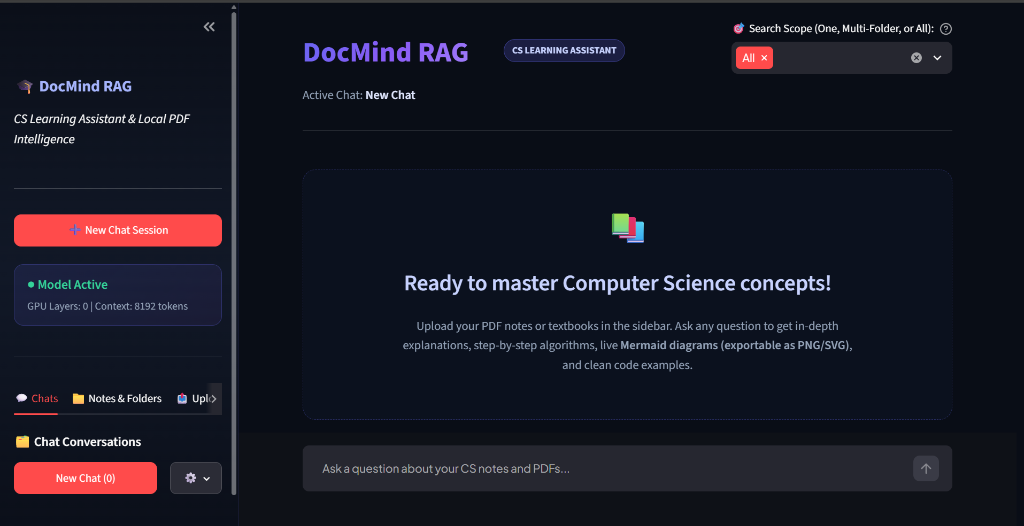
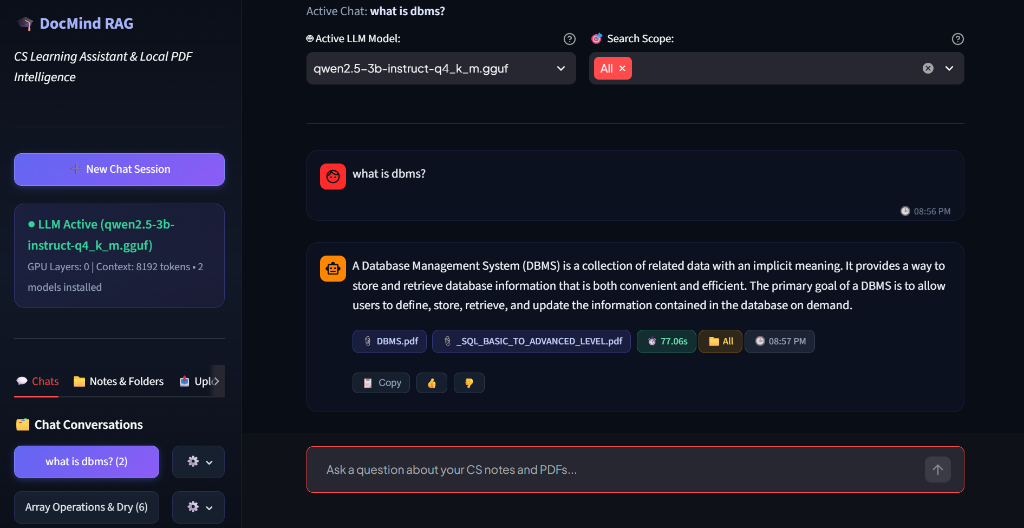
assets: update frontend_ui.png with latest live app screenshot and clean up superseded assets

diff --git a/README.md b/README.md
@@ -99,20 +99,10 @@ DocMind is configured with an intelligent rule framework to prevent hallucinatio
 
 ## 📸 Live Interface & Key Capabilities
 
-### 1. Main Learning Dashboard & Multi-Folder Scoping
-The frontend features a modern glassmorphism UI with multi-session chat persistence, subject-based folder filtering, real-time token streaming, dynamic model switching, and system telemetry:
+### Main Learning Dashboard & Multi-Folder Scoping
+The frontend features a modern glassmorphism UI with multi-session chat persistence, subject-based folder filtering, real-time token streaming, dynamic model switching, source citations, execution telemetry, and action toolbars:
 
 ![DocMind Streamlit Live UI](assets/frontend_ui.png)
-
-### 2. Marks-Based Q&A with Live Interactive Diagrams
-DocMind adapts explanation depth to question intent—giving crisp 1–5 line answers for short queries while rendering interactive, zoomable **Mermaid.js flowcharts** on demand:
-
-![Live Interactive Diagram and Q&A](assets/live_diagram_chat.png)
-
-### 3. Source Grounding, Timestamps & Action Toolbar
-Every assistant response cites its exact PDF sources and includes generation latency, message timestamps, and zero-reload action controls (📋 Copy, 👍 Like, 👎 Dislike):
-
-![Source Citations, Timestamps and Actions](assets/source_citations_actions.png)
 
 ---
 
@@ -165,9 +155,7 @@ RAG PDF CHATBOT/
 ├── .env.example                # Configuration template
 ├── assets/                     # Architectural infographics & UI screenshots
 │   ├── docmind_rag_overview.png
-│   ├── frontend_ui.png
-│   ├── live_diagram_chat.png
-│   └── source_citations_actions.png
+│   └── frontend_ui.png
 ├── chat_history/               # Persistent JSON chat sessions on disk
 │   └── chat_*.json
 ├── chroma_db/                  # Persistent ChromaDB vector store directory
